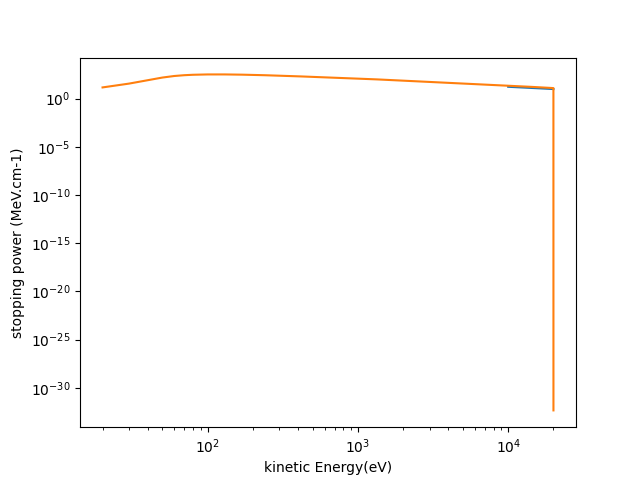
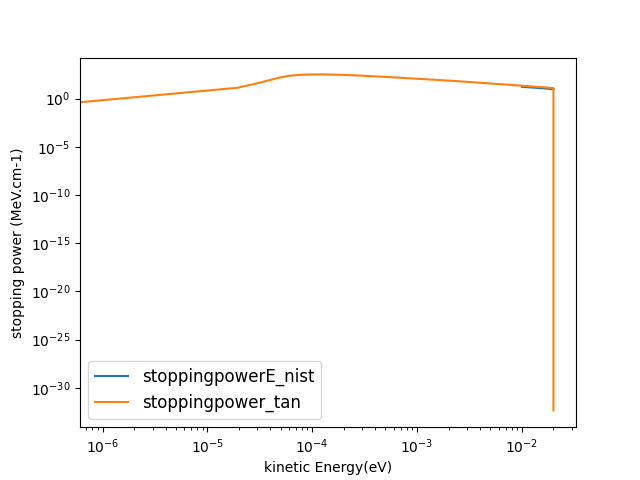
test

diff --git a/MCTDCRcode/TDCR_model_lib.py b/MCTDCRcode/TDCR_model_lib.py
@@ -273,12 +273,12 @@ def stop(e,rho,Z,A):
 
 dEdx1 = []
 dEdx2 = []
-e1 = np.linspace(1e4,2e4,1000)
+e1 = np.linspace(1e4,2e4,100)
 for i in e1:
     dEdx1.append(stop(i,rho=0.866,Z=5.199,A=11.04))
 #'''
-e2 = np.linspace(20,2e4,2000)
-for i in range(2000):
+e2 = np.linspace(0,2e4,20000)
+for i in range(20000):
      position = int(e2[i])
      dEdx2.append(float(data_TanXia_f[position]))
 #'''
@@ -356,10 +356,13 @@ for i in range(800000):
 '''
 #'''
 #e1 = np.linspace(2e-5,2e-2,1000)
-plt.plot(e1,dEdx1,label='stoppingpowerE_nist')
-plt.plot(e2,dEdx2,label='stoppingpower_tan')
+x1 = np.linspace(1e-2,2e-2,100)
+x2 = np.linspace(0,2e-2,20000)
+plt.plot(x1,dEdx1,label='stoppingpowerE_nist')
+plt.plot(x2,dEdx2,label='stoppingpower_tan')
 plt.xscale('log')
 plt.yscale('log')
+plt.legend(fontsize=12,loc='best')
 plt.xlabel('kinetic Energy(eV)')
 plt.ylabel('stopping power (MeV.cm-1)')
 plt.savefig('stoppingpowerE.png')
